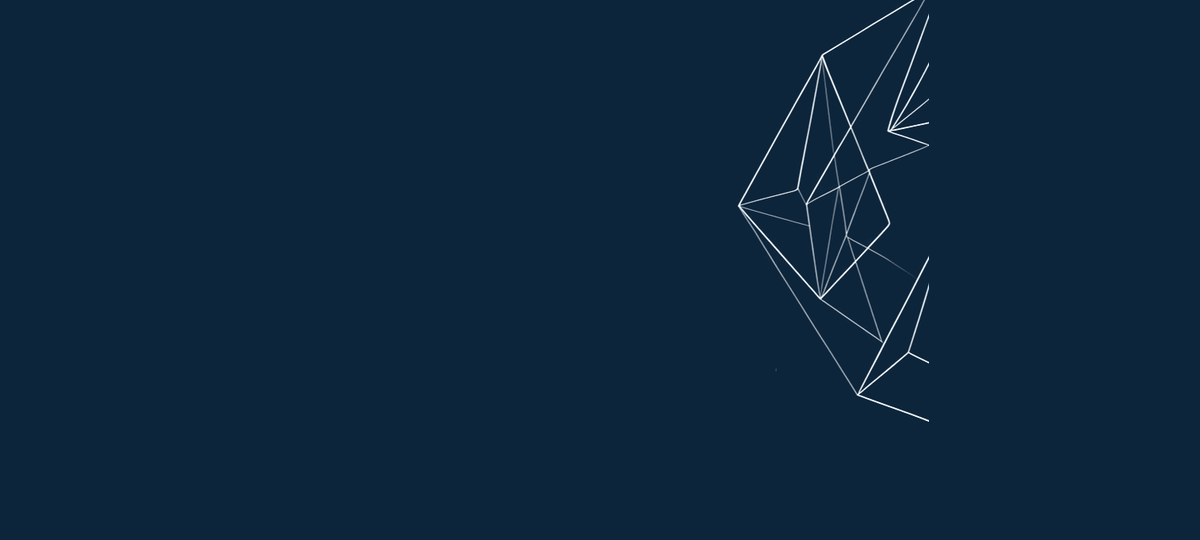
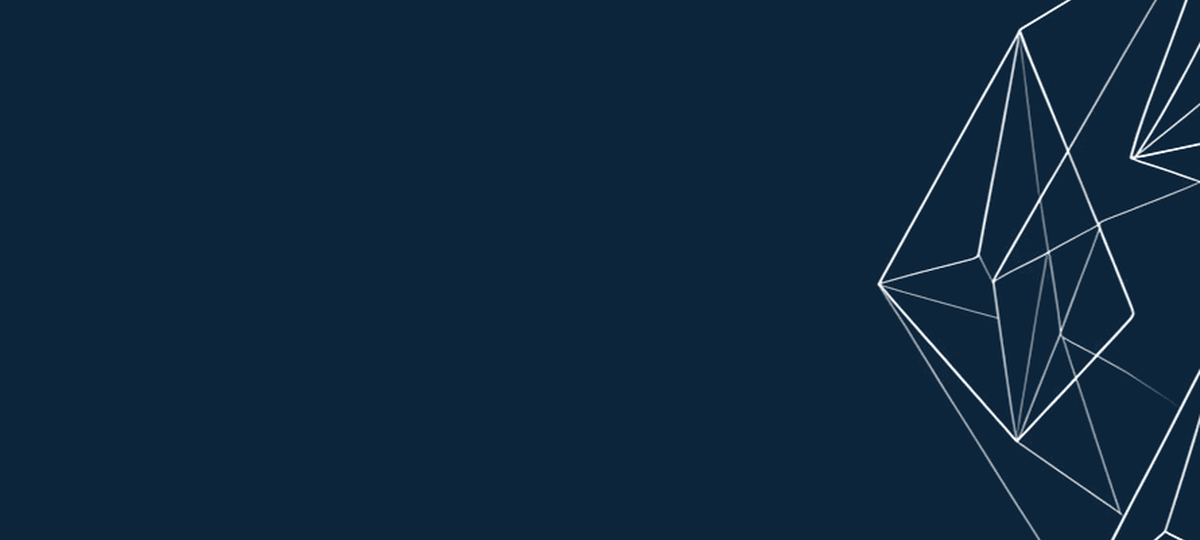
Zoom hero cover artwork into view

diff --git a/site/styles.css b/site/styles.css
@@ -1,7 +1,7 @@
 :root { color-scheme: light; --ink: #1d3044; --muted: #69737c; --canvas: #e8e8e4; --card: #fbfbf9; --card-strong: #eef1f2; --line: #ced5d8; --accent: #244967; --accent-soft: #dce9ef; --orange: #c77b43; --orange-soft: #f5e5d8; --positive: #39785f; --negative: #b1544f; --warning: #a96c2e; }
 * { box-sizing: border-box; } html { scroll-behavior: smooth; } body { margin: 0; background: var(--canvas); color: var(--ink); font-family: "Noto Sans TC", "Microsoft JhengHei", system-ui, sans-serif; }
 .app-shell { width: min(100% - 28px, 720px); margin: 0 auto; padding: 20px 0 36px; }.app-header { display: flex; align-items: center; justify-content: space-between; gap: 16px; margin-bottom: 22px; }.brand-lockup { display: flex; align-items: center; gap: 11px; }.brand-prstk { width: 104px; height: 38px; object-fit: contain; }.brand-dinv { width: 76px; height: 42px; object-fit: contain; transform: translateY(-3px) scale(1.24); transform-origin: left center; }.brand-divider { width: 1px; height: 25px; background: var(--line); }.live-status { display: inline-flex; align-items: center; gap: 7px; color: var(--muted); font-size: .72rem; white-space: nowrap; }.live-status span { width: 8px; height: 8px; border-radius: 50%; background: var(--orange); }.live-status b { font-weight: 700; }
-.hero-panel { position: relative; isolation: isolate; overflow: hidden; padding: 24px 22px 20px; border: 1px solid #183a58; border-radius: 22px; background: #0d253b; box-shadow: inset 0 1px rgba(255,255,255,.08), 0 10px 24px rgba(25, 54, 78, .14); color: #fff; }.hero-prism { position: absolute; inset: 0; z-index: 0; width: 100%; height: 100%; object-fit: cover; object-position: center top; transform: translateX(12%); pointer-events: none; }.hero-panel > :not(.hero-prism) { position: relative; z-index: 1; }.eyebrow, .section-kicker { margin: 0; color: var(--orange); font-size: .67rem; font-weight: 800; letter-spacing: .15em; }h1 { margin: 6px 0 8px; font-size: clamp(1.55rem, 7vw, 2.15rem); line-height: 1.1; letter-spacing: -.04em; }.hero-copy { max-width: 460px; min-height: 2.8em; margin: 0; color: #e4edf1; font-size: .9rem; line-height: 1.65; }.update-line { display: flex; gap: 9px; margin-top: 18px; color: #bdd0db; font-size: .75rem; }.update-line time { color: #fff; font-weight: 700; }
+.hero-panel { position: relative; isolation: isolate; overflow: hidden; padding: 24px 22px 20px; border: 1px solid #183a58; border-radius: 22px; background: #0d253b; box-shadow: inset 0 1px rgba(255,255,255,.08), 0 10px 24px rgba(25, 54, 78, .14); color: #fff; }.hero-prism { position: absolute; inset: 0; z-index: 0; width: 100%; height: 100%; object-fit: cover; object-position: center top; pointer-events: none; }.hero-panel > :not(.hero-prism) { position: relative; z-index: 1; }.eyebrow, .section-kicker { margin: 0; color: var(--orange); font-size: .67rem; font-weight: 800; letter-spacing: .15em; }h1 { margin: 6px 0 8px; font-size: clamp(1.55rem, 7vw, 2.15rem); line-height: 1.1; letter-spacing: -.04em; }.hero-copy { max-width: 460px; min-height: 2.8em; margin: 0; color: #e4edf1; font-size: .9rem; line-height: 1.65; }.update-line { display: flex; gap: 9px; margin-top: 18px; color: #bdd0db; font-size: .75rem; }.update-line time { color: #fff; font-weight: 700; }
 .quick-nav { display: grid; grid-template-columns: repeat(4, 1fr); gap: 8px; margin: 14px 0 28px; }.quick-nav a { padding: 10px 4px; border: 1px solid var(--line); border-radius: 12px; color: var(--accent); background: var(--card); font-size: .8rem; font-weight: 800; text-align: center; text-decoration: none; }.quick-nav a:active { background: var(--orange-soft); color: #8b5128; }.section-block { margin-top: 34px; scroll-margin-top: 14px; }.section-heading { display: flex; align-items: end; justify-content: space-between; gap: 12px; margin-bottom: 12px; }.section-heading h2 { margin: 3px 0 0; color: var(--accent); font-size: 1.25rem; letter-spacing: -.02em; }.source-chip, .tag { display: inline-flex; align-items: center; min-height: 26px; padding: 4px 9px; border-radius: 999px; background: var(--accent-soft); color: var(--accent); font-size: .72rem; font-weight: 700; white-space: nowrap; }.tag.neutral { background: #e7e5df; color: #67665f; }.section-note { margin: -2px 0 12px; color: var(--muted); font-size: .79rem; line-height: 1.55; }.research-tabs { display: grid; grid-template-columns: repeat(2, 1fr); gap: 8px; margin: 0 0 10px; }.research-tab { padding: 10px; border: 1px solid var(--line); border-radius: 11px; background: var(--card); color: var(--muted); font: inherit; font-size: .82rem; font-weight: 800; }.research-tab.active { border-color: var(--orange); background: var(--orange-soft); color: #8b5128; }
 .panel, .sub-panel { border: 1px solid var(--line); background: var(--card); }.panel { margin-top: 10px; padding: 18px; border-radius: 18px; }.emphasis-panel { background: #f1f3ed; }.compact-panel { padding: 16px 18px; }.panel-heading { display: flex; align-items: center; justify-content: space-between; gap: 10px; margin-bottom: 11px; }.panel-heading h3 { margin: 0; color: var(--accent); font-size: .95rem; }.panel-heading > span { color: var(--orange); font-size: .72rem; font-weight: 700; }.panel-copy { margin: 0 0 11px; color: #56574f; font-size: .86rem; line-height: 1.6; }.watch-list, .risk-list, .news-list, .event-list, .research-list { padding: 0; margin: 0; list-style: none; }.watch-list li, .risk-list li, .research-list li { display: flex; align-items: center; justify-content: space-between; gap: 12px; padding: 11px 0; border-top: 1px solid var(--line); font-size: .86rem; }.event-list li, .news-list li { padding: 11px 0; border-top: 1px solid var(--line); color: #4d4e48; font-size: .84rem; line-height: 1.5; }.watch-list b, .risk-list b, .research-list b { color: var(--accent); font-size: .78rem; }.watch-list small, .risk-list small, .research-list small, .event-list small, .news-list small { display: block; margin-top: 3px; color: var(--muted); font-size: .7rem; }.quote-value, .risk-value { text-align: right; }.quote-value b { display: block; color: var(--ink); font-size: .86rem; }.quote-value small.up { color: var(--positive); }.quote-value small.down { color: var(--negative); }.quote-value small.flat { color: var(--muted); }.event-list a, .news-list a { color: var(--accent); text-decoration: none; }.empty { justify-content: center !important; color: var(--muted) !important; }.detail-content { display: grid; gap: 10px; }.sub-panel { padding: 15px; border-radius: 14px; border-top: 3px solid var(--orange); }.news-grid { display: grid; grid-template-columns: 1fr 1fr; gap: 10px; } footer { margin-top: 36px; padding: 20px 8px 0; border-top: 1px solid var(--line); color: var(--muted); font-size: .73rem; line-height: 1.65; text-align: center; } footer p { margin: 0; }
 .alert-card { border: 1px solid var(--line); border-radius: 18px; background: var(--card); }.alert-card-header { display: flex; align-items: baseline; justify-content: space-between; gap: 10px; padding: 16px 18px 0; color: var(--ink); }.alert-card-header p { margin: 0; color: var(--accent); font-size: .78rem; font-weight: 800; letter-spacing: .08em; }.alert-card-header time { color: var(--muted); font-size: .7rem; }.alert-banner { margin: 12px 18px 10px; padding: 10px 0; border-bottom: 1px solid var(--line); color: #51534b; font-size: .86rem; font-weight: 800; }.alert-card[data-risk="high"] .alert-banner { color: var(--negative); }.alert-card[data-risk="warning"] .alert-banner { color: #996a30; }.alert-card[data-risk="neutral"] .alert-banner { color: var(--accent); }.alert-quote-grid { display: grid; grid-template-columns: repeat(2, minmax(0, 1fr)); gap: 8px; padding: 0 18px; }.alert-quote { min-width: 0; padding: 11px; border-radius: 11px; background: var(--card-strong); }.alert-quote b, .alert-quote strong, .alert-quote small { display: block; }.alert-quote b { color: #596057; font-size: .76rem; }.alert-quote strong { margin-top: 5px; color: var(--ink); font-size: 1.05rem; }.alert-quote small { margin-top: 3px; font-size: .72rem; }.alert-quote .up { color: var(--positive); }.alert-quote .down { color: var(--negative); }.alert-quote .flat { color: var(--muted); }.alert-detail { padding: 14px 18px 2px; }.alert-detail h3 { margin: 0 0 8px; color: var(--ink); font-size: .97rem; line-height: 1.45; }.alert-detail p { margin: 4px 0; color: #56574f; font-size: .82rem; line-height: 1.55; }.signal-list { margin: 5px 18px 0; }.signal-list li { padding: 9px 0; }.alert-reminder { margin: 10px 18px 18px; padding: 11px; border-radius: 10px; background: var(--accent-soft); color: #356149; font-size: .79rem; line-height: 1.55; }.numbered-list { padding-left: 1.35rem; list-style: decimal; }.numbered-list li { padding-left: 3px; }

diff --git a/site/index.html b/site/index.html
@@ -5,7 +5,7 @@
     <meta name="viewport" content="width=device-width, initial-scale=1" />
     <meta name="description" content="稜量速報系統 Telegram Mini App" />
     <title>稜量速報系統</title>
-    <link rel="stylesheet" href="styles.css?v=20260728-hero2" />
+    <link rel="stylesheet" href="styles.css?v=20260728-hero3" />
     <script src="https://telegram.org/js/telegram-web-app.js?61"></script>
   </head>
   <body>
@@ -20,7 +20,7 @@
       </header>
 
       <section class="hero-panel" aria-labelledby="app-title">
-        <img class="hero-prism" src="assets/hero-prism-cover.png?v=20260728-hero2" alt="" aria-hidden="true" />
+        <img class="hero-prism" src="assets/hero-prism-cover.png?v=20260728-hero3" alt="" aria-hidden="true" />
         <p class="eyebrow">D.inv System</p>
         <h1 id="app-title">稜量速報系統</h1>
         <p id="market-focus" class="hero-copy">正在整理最新市場焦點。</p>
